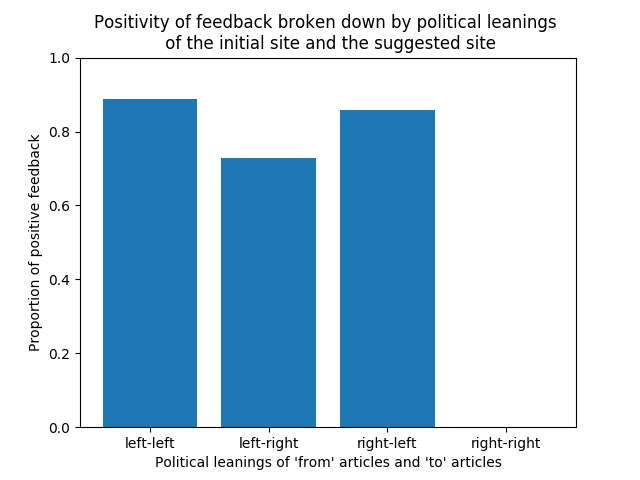
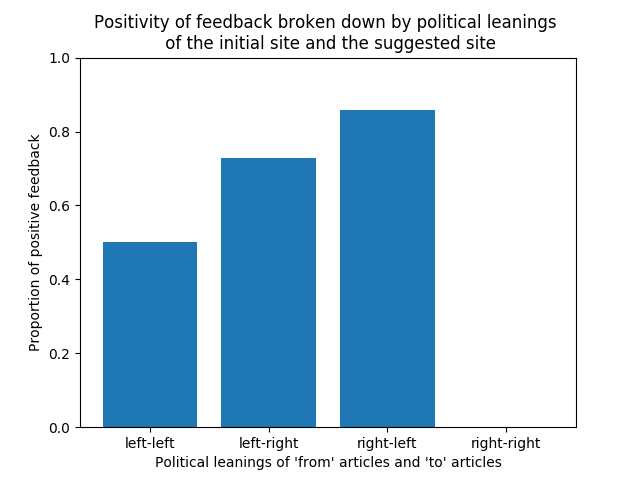
Fixes bug due to cursors only being iterable once

Changed region(s): [[0.1562, 0.1875, 0.3125, 0.5312]]

diff --git a/aws_python/mongo_feedback/database_access.py b/aws_python/mongo_feedback/database_access.py
@@ -28,7 +28,8 @@ class FeedbackDB():
 
         if links is None:
             # find documents terminating at passed url
-            links = self.db.feedback_links.find({'to': url})
+            links_cursor = self.db.feedback_links.find({'to': url})
+            links = [l for l in links_cursor]
 
         # initialise count
         pos = 0
@@ -43,7 +44,8 @@ class FeedbackDB():
 
         if links is None:
             # find documents terminating at passed url
-            links = self.db.feedback_links.find({'to': url})
+            links_cursor = self.db.feedback_links.find({'to': url})
+            links = [l for l in links_cursor]
 
         # initialise count
         neg = 0
@@ -57,7 +59,8 @@ class FeedbackDB():
     def count_just_clicked(self, url, links=None):
         if links is None:
             # find documents terminating at passed url
-            links = self.db.feedback_links.find({'to': url})
+            links_cursor = self.db.feedback_links.find({'to': url})
+            links = [l for l in links_cursor]
 
         # initialise count
         clicks = 0
@@ -72,11 +75,14 @@ class FeedbackDB():
 
         if links is None:
             # find documents terminating at passed url
-            links = self.db.feedback_links.find({'to': url})
+            links_cursor = self.db.feedback_links.find({'to': url})
+
+        links = [l for l in links_cursor]
 
         pos = self.count_pos(url, links)
         neg = self.count_neg(url, links)
 
+        print('pos:', pos, 'neg:', neg)
         # TODO: check this is not int
         if pos > 0:
             return pos / (pos+neg)

diff --git a/aws_python/feedback/feedback_analysis.py b/aws_python/feedback/feedback_analysis.py
@@ -9,10 +9,10 @@ from classifiers.classifiers import classify
 def get_all_urls(db):
     # get the links table
     links = db.get_all_links()
-    urls = []
+    urls = set()
     # get the target urls from the links
     for l in links:
-        urls.append(l['to'])
+        urls.add(l['to'])
 
     return urls
 
@@ -101,6 +101,7 @@ def plot_liked_alternate_or_same_political_leaning(db, heur_db=None):
     # plot bar chart for each type of political link
     x = np.arange(4)
     plt.bar(x, [left_left, left_right, right_left, right_right])
+    print(left_left, left_right, right_left, right_right)
     plt.xticks(x, ('left-left', 'left-right', 'right-left', 'right-right'))
     plt.ylim([0, 1])
     plt.xlabel('Political leanings of \'from\' articles and \'to\' articles')
